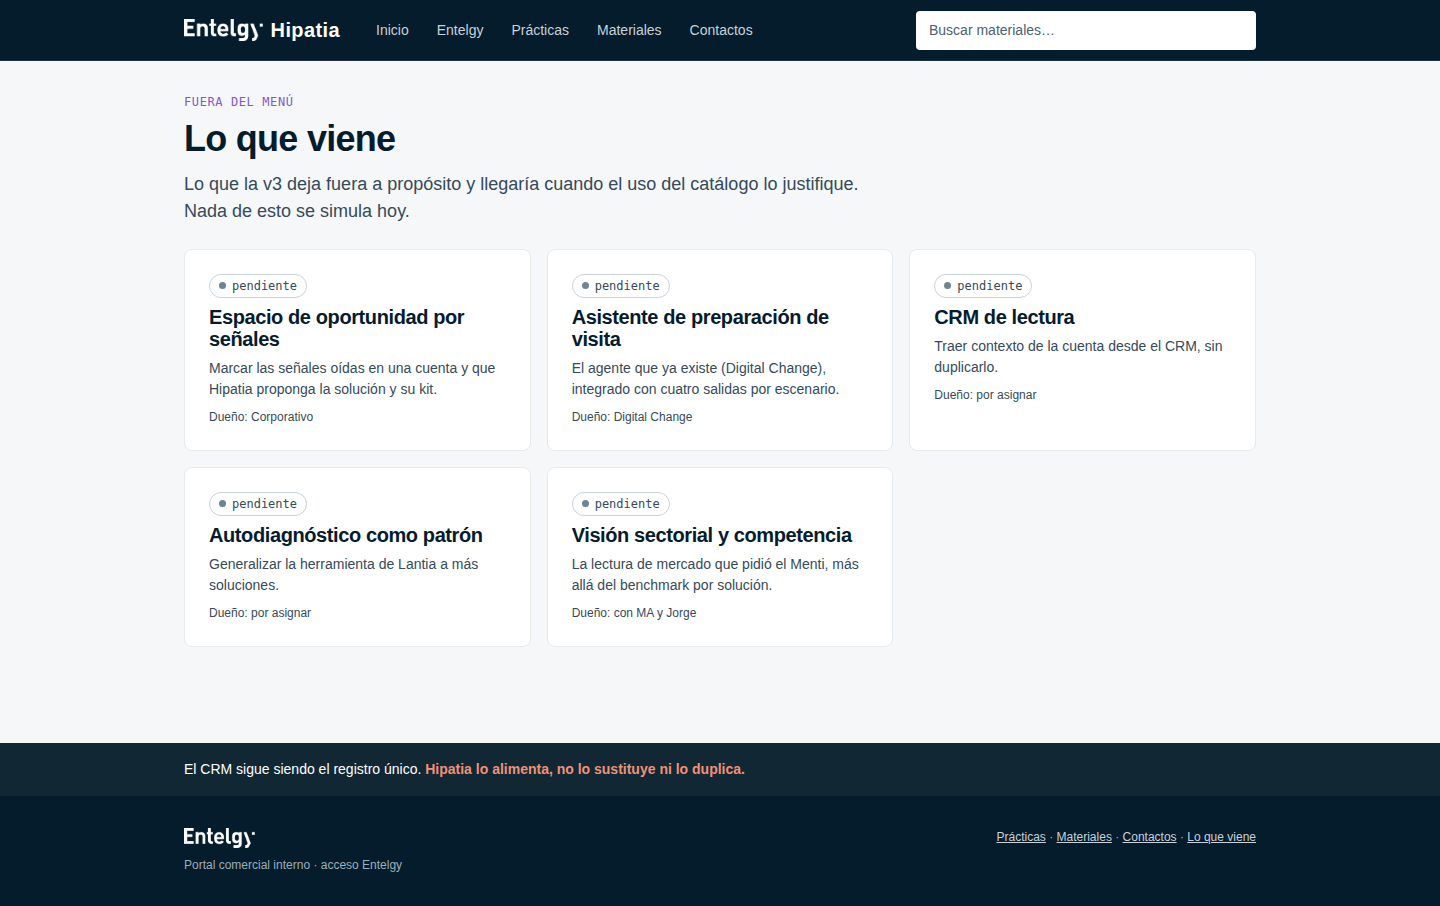
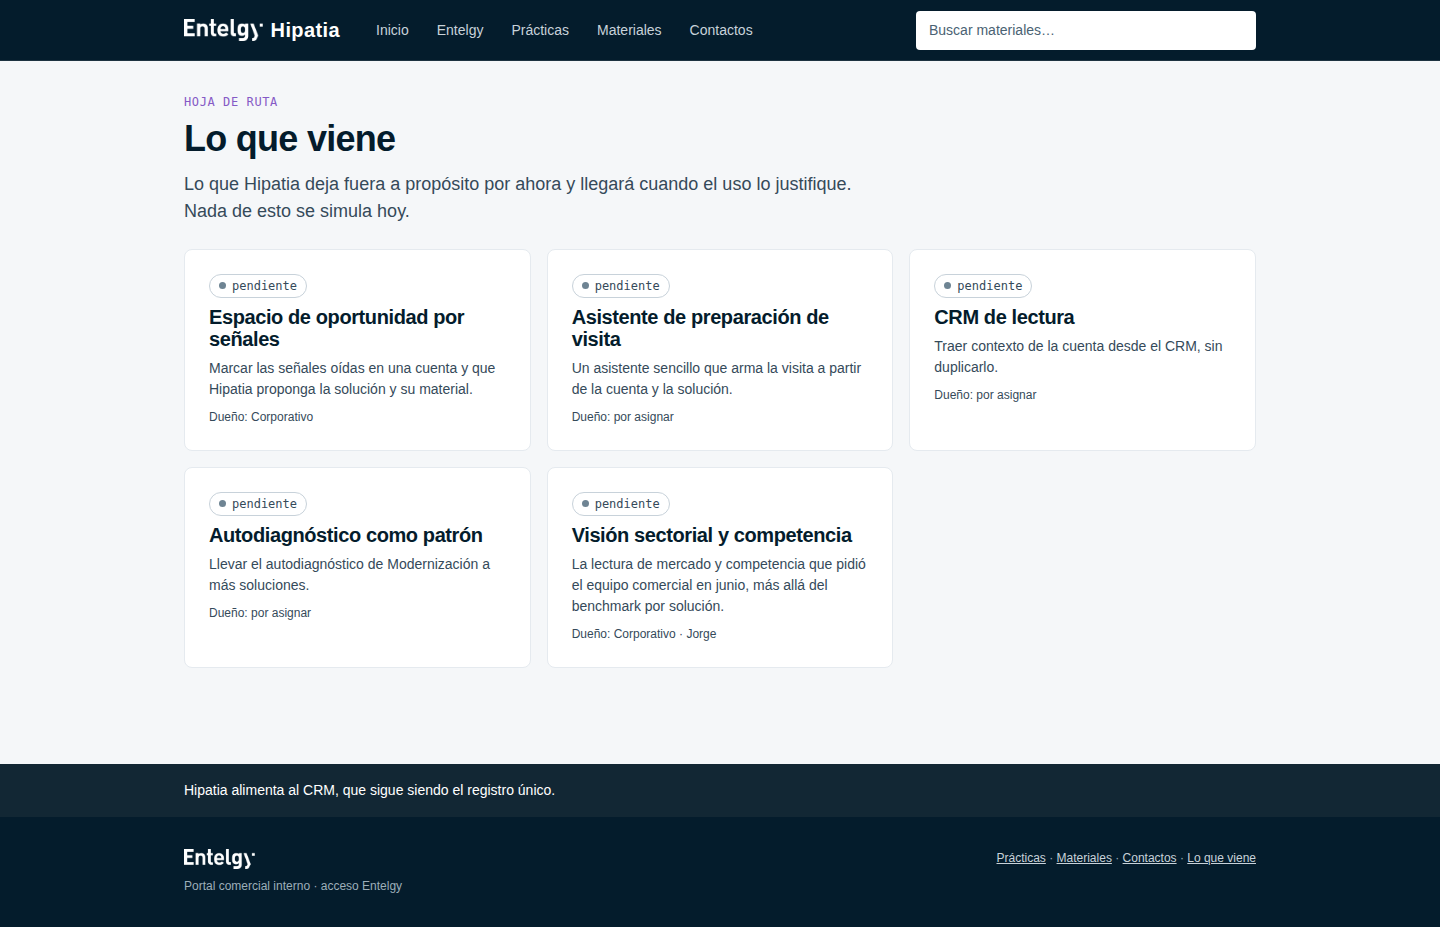
v3: el barrido de canon también caza «acompañar» y las notas de revisión
Claude-Session: https://claude.ai/code/session_01MVvbucM9Dr31EjbaQCaUFZ

diff --git a/medir.js b/medir.js
@@ -79,6 +79,12 @@ htmlFiles.forEach((f) => {
   if (/Security/.test(html)) canon.push("Security");
   if (/§\s*\d/.test(html)) canon.push("§ + dígito");
   if (/no se abre[^<]{0,40}%|%[^<]{0,40}no se abre/i.test(html)) canon.push("métrica de uso");
+  // revisión 12: notas de revisión, «acompañar» y «Demo a Dirección» — salvo /autodiagnostico/ (página de julio, no se toca)
+  if (!route.startsWith("/autodiagnostico")) {
+    if (/revisión\s*\d/i.test(html)) canon.push("nota de revisión");
+    if (/acompañ/i.test(html)) canon.push("acompañar");
+    if (/Demo a Dirección/i.test(html)) canon.push("Demo a Dirección");
+  }
   if (canon.length) results.honestidad.push(`${route} (canon: ${canon.join(", ")})`);
 });
 

diff --git a/docs/medicion/informe.md b/docs/medicion/informe.md
@@ -1,6 +1,6 @@
 # Medición · Hipatia v3
 
-> Generado por `medir.js` el 2026-09-03. Rutas medidas: 114.
+> Generado por `medir.js` el 2026-09-04. Rutas medidas: 114.
 
 ## Criterios de aceptación (§6.8)
 
@@ -12,7 +12,7 @@
 | 5 | Uso/estado/dueño, citable⇒sign_off, sin enlaces rotos | 🟢 (rotos: 0) |
 | 6 | Ninguna pantalla afirma agente/envío/integración | 🟢 |
 | 7 | URL propia y buscador en todas | 🟢 |
-| 8 | Contraste AA · 0 errores consola · <150 KB · 390 px | 🟢 (peso máx 137 KB) |
+| 8 | Contraste AA · 0 errores consola · <150 KB · 390 px | 🟢 (peso máx 139 KB) |
 | 9 | Reconocible por quien usó hipatia2 | ⚪ cualitativo |
 
 ## Clics desde la portada
@@ -38,10 +38,10 @@
 
 | Ruta | KB |
 |---|---|
-| /materiales | 137 |
+| /materiales | 139 |
 | /modernizacion/materiales | 62 |
 | /modernizacion/materiales | 46 |
-| /practicas/software-development/modernizacion | 44 |
+| /practicas/software-development/modernizacion | 45 |
 | /autodiagnostico/grupo-lantia | 43 |
 | / | 38 |
 | /practicas/digital-change | 34 |
@@ -51,7 +51,7 @@
 | /practicas/process-intelligence | 33 |
 | /practicas/smart-operations | 33 |
 
-(máximo 137 KB de 114 páginas; imágenes aparte)
+(máximo 139 KB de 114 páginas; imágenes aparte)
 
 ## Navegador
 

diff --git a/CLAUDE.md b/CLAUDE.md
@@ -20,7 +20,7 @@ Este repo publica hipatia2.guberna.es (Cloudflare Worker con assets estáticos e
 - Honestidad: nada simula un agente, un envío o una integración. Un hueco dice «en preparación · dueño · fecha», nunca lleva texto de relleno ni fecha inventada.
 - Cifras y casos: solo los que tengan `sign_off` en el JSON. Las cifras siempre como resultado de un caso, nunca como promesa. El Assessment de Modernización se cuenta como «dos semanas».
 - Software Development tiene tres soluciones (Modernización, Mantenimiento evolutivo, Asistencia técnica aumentada); Spec-Driven y Factoría SEAS son capacidades. Decisión provisional, pendiente de Jorge.
-- Nunca en pantalla: marca Guberna, Security América, métricas de uso de Hipatia, referencias a la spec (§), jerga de trabajo (P0, cableado, sign-off de Px).
+- Nunca en pantalla: marca Guberna, Security América, métricas de uso de Hipatia, referencias a la spec (§), jerga de trabajo (P0, cableado, sign-off de Px), notas de revisión («revisión N»), «acompañar».
 
 ## Forma de trabajar
 - Un commit por tarea con el mensaje que indica el plan. Rama `v3`.
